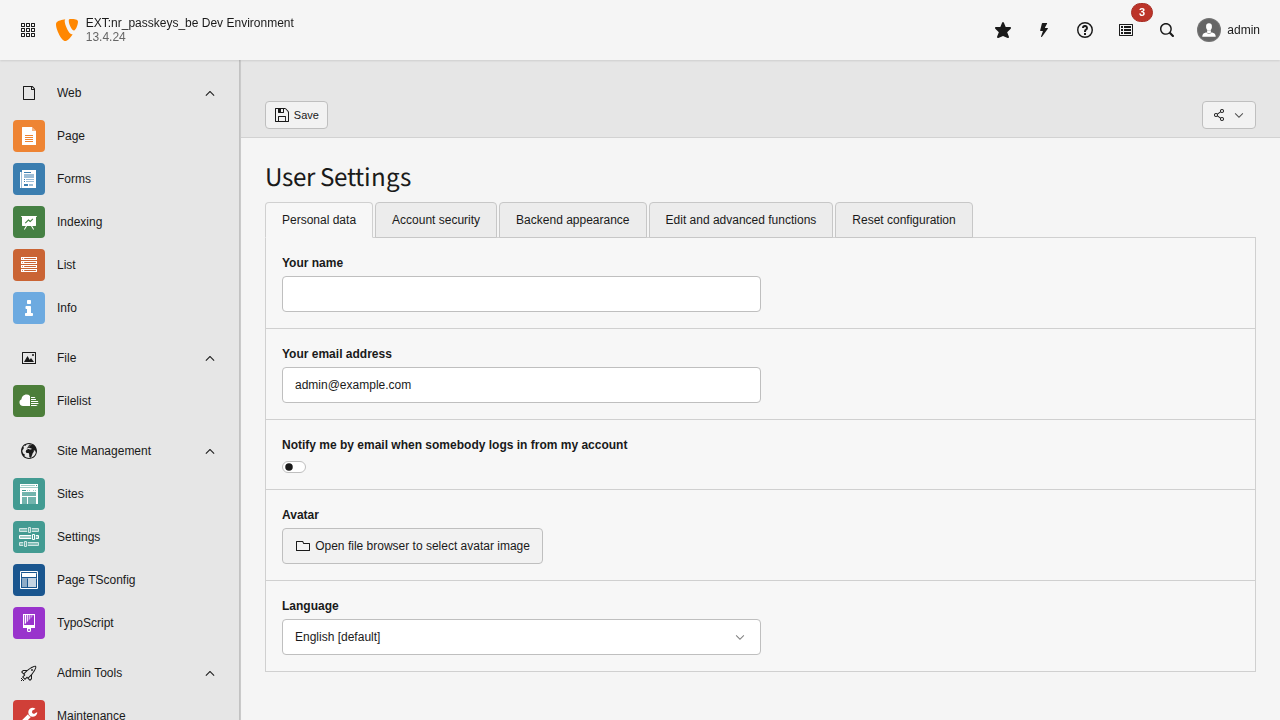
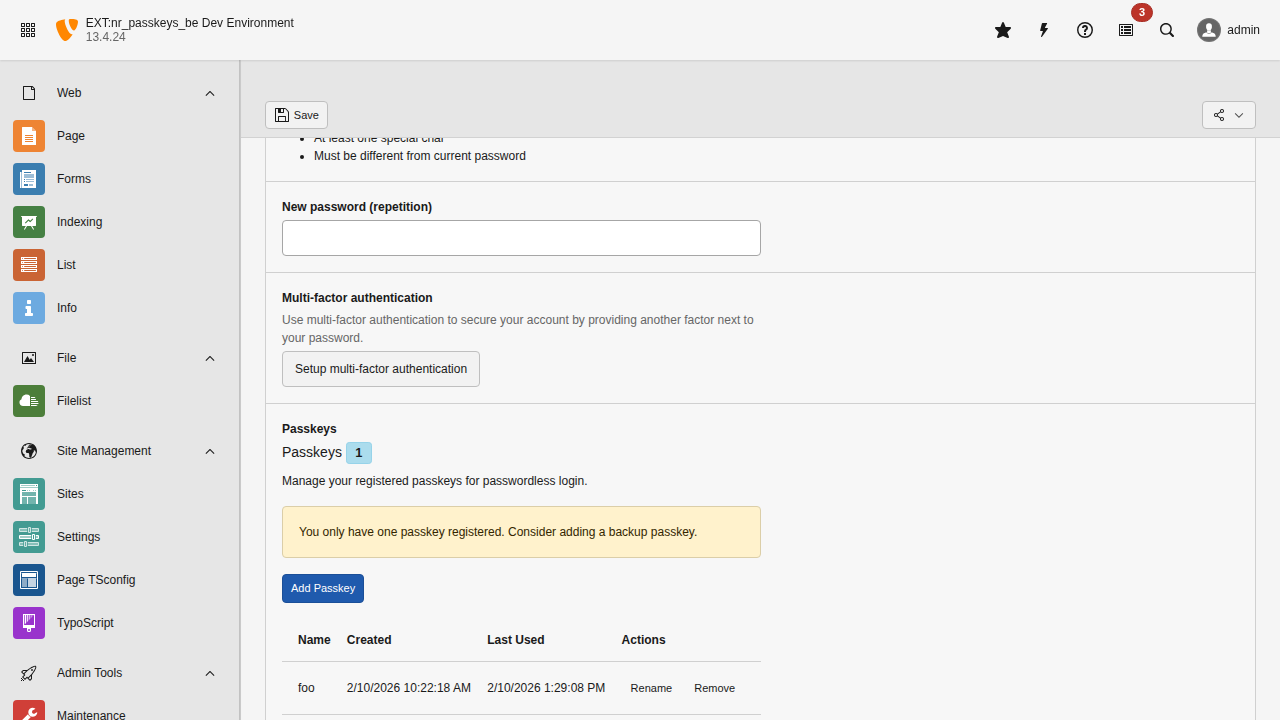
fix: TER publish and CI failures
- Remove declare(strict_types=1) from ext_emconf.php (TER cannot parse it)
- Bump version to 0.1.1 for next TER publish attempt
- Add explicit phpstan-typo3 and ergebnis includes to phpstan.neon
  (extension-installer broken locally due to CaptainHook worktree issue)
- Add route attribute mapping for PublicRouteResolver
- Fix user settings screenshot to show Account security tab with
  Passkeys section via list_frame iframe navigation

diff --git a/Tests/E2E/screenshots.spec.ts b/Tests/E2E/screenshots.spec.ts
@@ -75,16 +75,30 @@ test.describe('Documentation Screenshots', () => {
 
         await page.goto('/typo3/module/user/setup');
         await page.waitForLoadState('networkidle');
+        await page.waitForTimeout(500);
 
-        // Try to find the passkey section
-        const passkeySection = page.locator('[data-passkey-management]').or(
-            page.locator('#passkey-management-container'),
+        // Content is inside the list_frame iframe
+        const contentFrame = page.frame('list_frame') ?? page;
+
+        // Click the "Account security" tab
+        const securityTab = contentFrame.locator(
+            'text=Account security',
         );
-
-        if (await passkeySection.isVisible({ timeout: 5000 }).catch(() => false)) {
-            await passkeySection.scrollIntoViewIfNeeded();
+        if (await securityTab.isVisible({ timeout: 3000 }).catch(() => false)) {
+            await securityTab.click();
             await page.waitForTimeout(500);
         }
+
+        // Scroll to show the Passkeys section centered in view
+        await contentFrame.evaluate(() => {
+            const passkeys = Array.from(
+                document.querySelectorAll('h4, h3, legend, label, strong'),
+            ).find(e => e.textContent?.includes('Passkeys'));
+            if (passkeys) {
+                passkeys.scrollIntoView({ block: 'center' });
+            }
+        });
+        await page.waitForTimeout(300);
 
         await page.screenshot({
             path: `${SCREENSHOT_DIR}/UserSettings/PasskeyManagement.png`,

diff --git a/ext_emconf.php b/ext_emconf.php
@@ -10,7 +10,7 @@ $EM_CONF[$_EXTKEY] = [
     'author_email' => 'typo3@netresearch.de',
     'author_company' => 'Netresearch DTT GmbH',
     'state' => 'beta',
-    'version' => '0.1.0',
+    'version' => '0.1.1',
     'constraints' => [
         'depends' => [
             'typo3' => '13.4.0-14.99.99',
